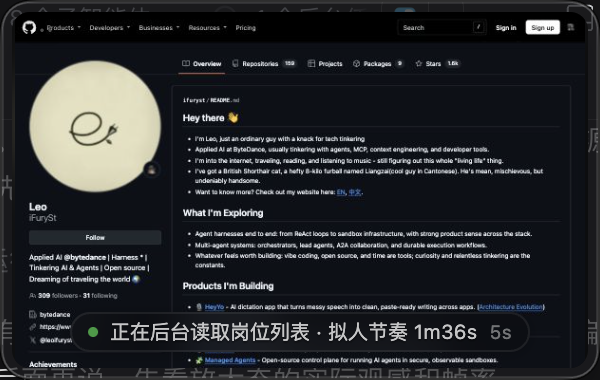
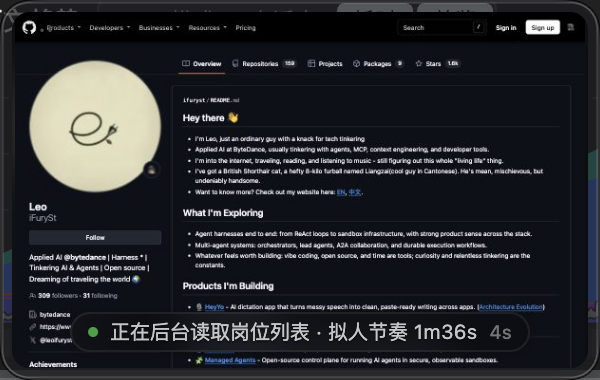
更新实况截图：收起态 600×380、放大态 1920×1440（会话名已显示为人话标题）

diff --git a/README.md b/README.md
@@ -199,7 +199,7 @@ flow/               # 每个流程的方法论与踩坑记录
 
 点 `⤢` 放大看细节（960×600，画面按 2× 出图，1920×1200 像素）：
 
-![放大态](overlay/docs/ui-live-expanded.png)
+![放大态](overlay/docs/ui-live-expanded.jpg)
 
 多会话并存时，每个会话一个窗口：
 
